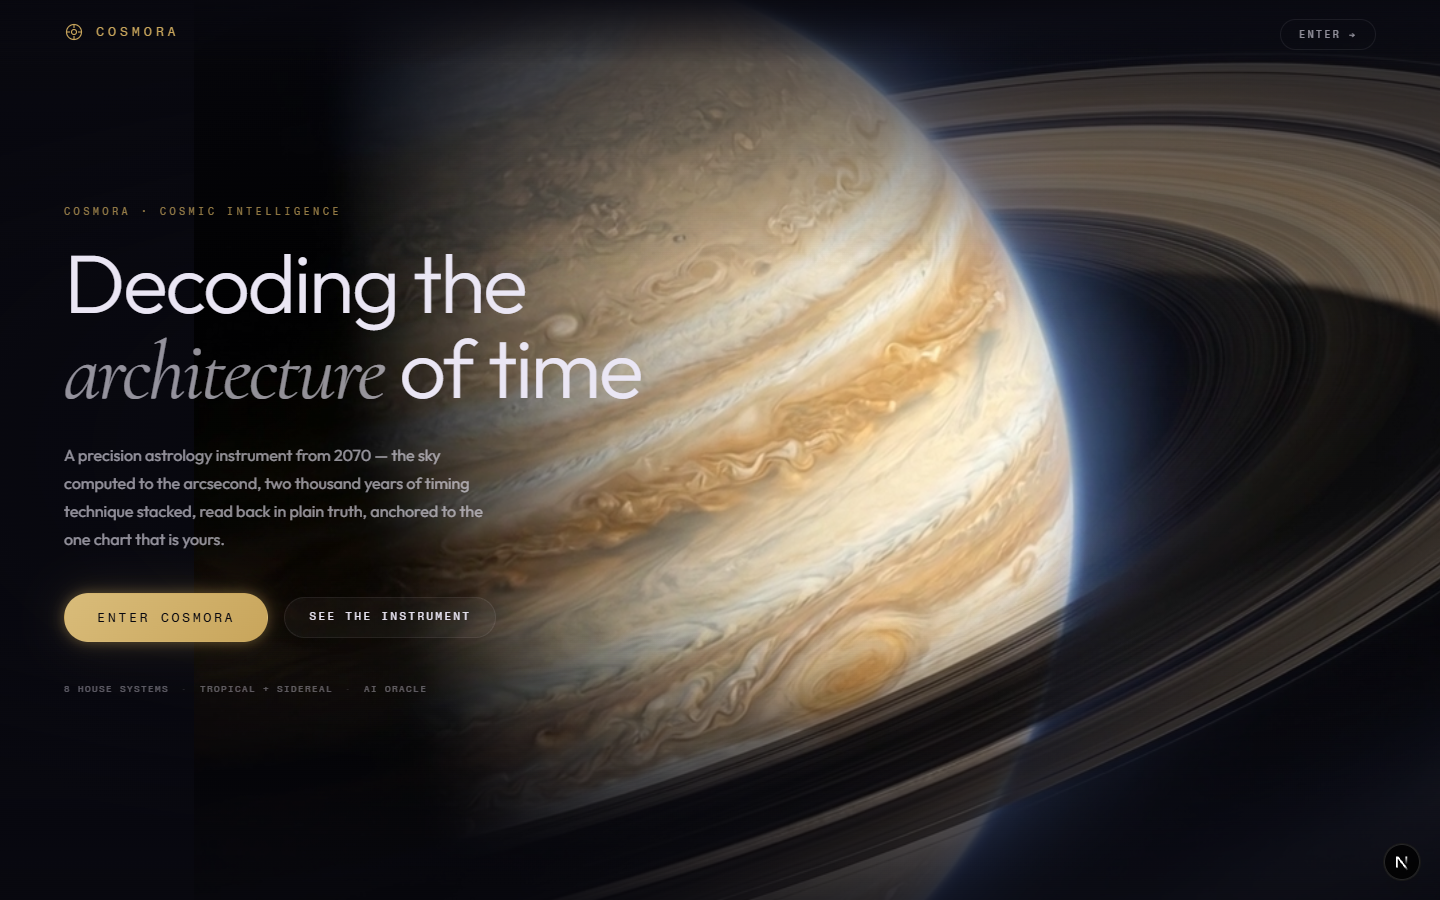
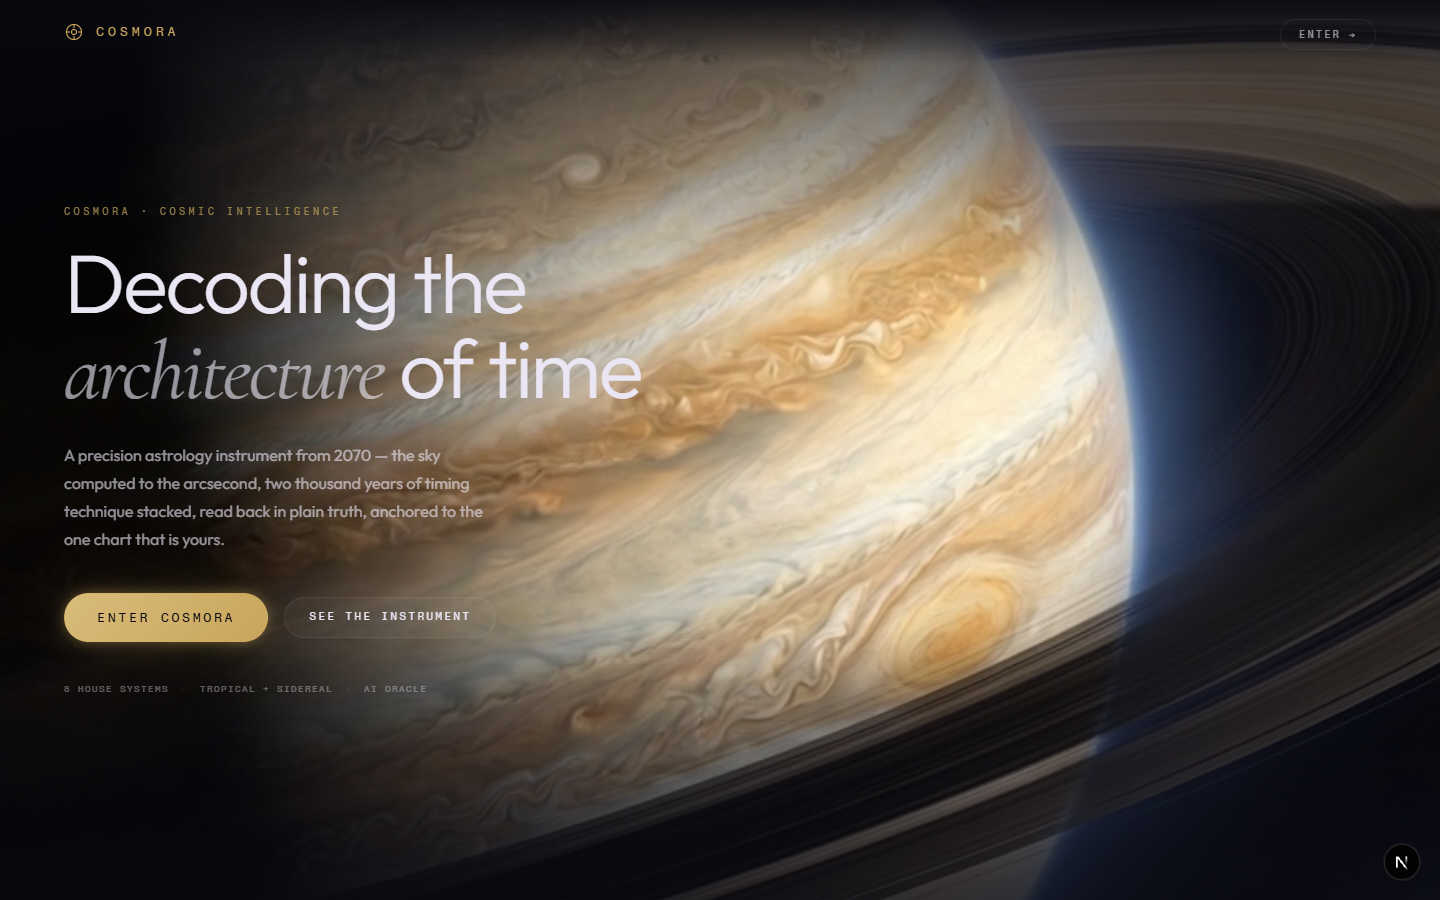
fix: VideoPlanet framing + loop (no more half-image / frame edges)
John: 'not functional for scroll — shows the frame, only a half image, and it
doesn't loop.' Root cause: objectFit cover scaled BELOW viewport (0.66), which
exposed the video's rectangular frame and a cropped planet.
- Keep the planet zoomed in and bleeding off all edges at all times (scale
  always >= ~1.4); scroll zooms further IN instead of shrinking — a 'descend
  into the planet' feel, no frame ever visible.
- Seamless loop: crossfade end->start between two staggered video copies
  (single <video loop> hard-cut at the boundary).

v1.20

diff --git a/src/components/landing/VideoPlanet.tsx b/src/components/landing/VideoPlanet.tsx
@@ -1,39 +1,64 @@
 "use client";
 
 /**
- * VideoPlanet — the home hero: a pre-rendered PHOTOREAL spinning planet
- * (Higgsfield), repositioned and resized across the page scroll. Screen blend
- * mode drops the black space so only the planet + rings sit on the void.
- * Pre-rendered = genuinely photoreal, which real-time WebGL can't match.
+ * VideoPlanet — the home hero: a pre-rendered PHOTOREAL spinning planet,
+ * kept ZOOMED IN and bleeding off every edge so the video's frame is never
+ * visible (the old bug: scaling below cover exposed the rectangular frame and
+ * a cropped half-planet). On scroll it zooms further IN, never shrinks.
+ * Seamless loop via crossfade between two staggered copies.
  */
 
-import { motion, useTransform, MotionValue } from "framer-motion";
+import { useEffect, useRef } from "react";
+import { motion, useTransform, useMotionValueEvent, MotionValue } from "framer-motion";
 
-// progress → [translateX vw, translateY vh, scale]
+// Always >= ~1.35 so the video stays larger than the viewport → no frame edges.
 const KEYS = {
-  p:  [0.00, 0.24, 0.48, 0.72, 1.00],
-  tx: [16,  -22,   0,    16,   0],
-  ty: [0,    4,    0,   -4,    0],
-  s:  [1.05, 0.72, 0.95, 0.66, 1.18],
+  p:  [0,    0.25, 0.5,  0.75, 1],
+  tx: [13,   10,   5,    8,    2],     // vw — gentle drift, bounded by (scale-1)/2
+  ty: [0,    2,    0,    -2,   0],     // vh
+  s:  [1.42, 1.52, 1.64, 1.74, 1.9],  // zoom IN across the scroll, never below cover
 };
 
 export default function VideoPlanet({ progress }: { progress: MotionValue<number> }) {
+  const aRef = useRef<HTMLVideoElement>(null);
+  const bRef = useRef<HTMLVideoElement>(null);
   const x = useTransform(progress, KEYS.p, KEYS.tx.map(v => `${v}vw`));
   const y = useTransform(progress, KEYS.p, KEYS.ty.map(v => `${v}vh`));
   const scale = useTransform(progress, KEYS.p, KEYS.s);
 
+  // Seamless loop: crossfade end→start between two copies so the loop point
+  // never hard-cuts (the single <video loop> jumped).
+  useEffect(() => {
+    const a = aRef.current, b = bRef.current;
+    if (!a || !b) return;
+    const FADE = 0.7;
+    let active = a, idle = b;
+    a.play().catch(() => {});
+    b.pause();
+    const onTime = () => {
+      if (!active.duration) return;
+      if (active.currentTime >= active.duration - FADE) {
+        idle.currentTime = 0;
+        idle.play().catch(() => {});
+        idle.style.opacity = "1";
+        active.style.opacity = "0";
+        const swap = active; active = idle; idle = swap;
+      }
+    };
+    a.addEventListener("timeupdate", onTime);
+    b.addEventListener("timeupdate", onTime);
+    return () => { a.removeEventListener("timeupdate", onTime); b.removeEventListener("timeupdate", onTime); };
+  }, []);
+
+  const vidStyle: React.CSSProperties = {
+    position: "absolute", inset: 0, width: "100%", height: "100%",
+    objectFit: "cover", transition: "opacity 0.7s linear",
+  };
+
   return (
-    <motion.video
-      src="/videos/saturn-spin.mp4"
-      autoPlay muted loop playsInline preload="auto"
-      style={{
-        position: "absolute", top: 0, left: 0,
-        width: "100%", height: "100%",
-        objectFit: "cover",
-        x, y, scale,
-        mixBlendMode: "screen",   // black space → void; planet + rings show
-        pointerEvents: "none",
-      }}
-    />
+    <motion.div style={{ position: "absolute", inset: 0, x, y, scale, mixBlendMode: "screen", pointerEvents: "none" }}>
+      <video ref={aRef} src="/videos/saturn-spin.mp4" muted playsInline preload="auto" style={{ ...vidStyle, opacity: 1 }} />
+      <video ref={bRef} src="/videos/saturn-spin.mp4" muted playsInline preload="auto" style={{ ...vidStyle, opacity: 0 }} />
+    </motion.div>
   );
 }
